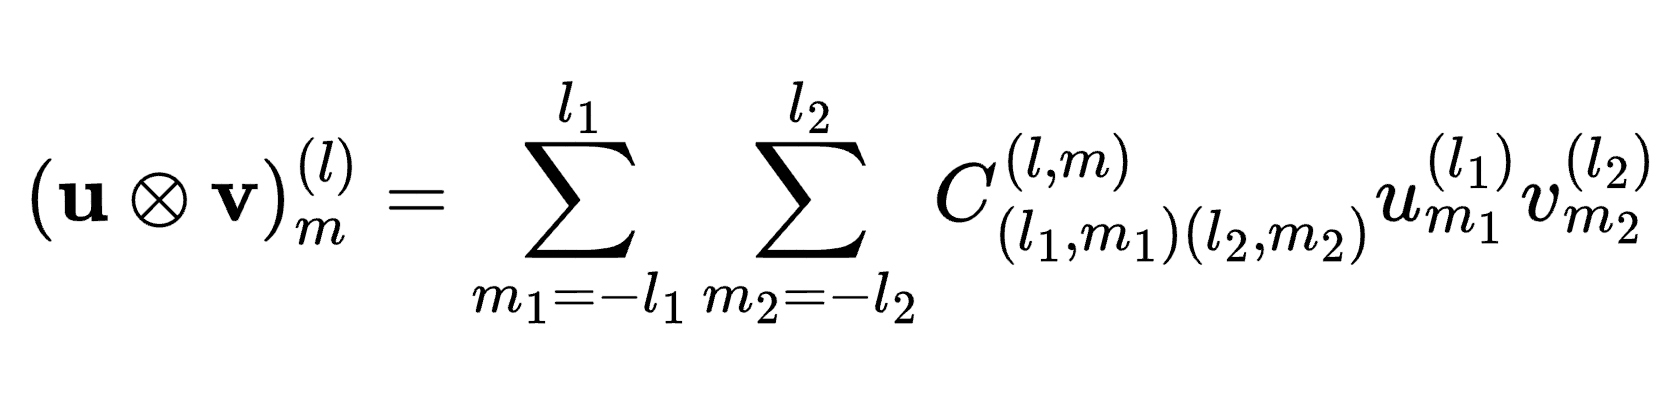
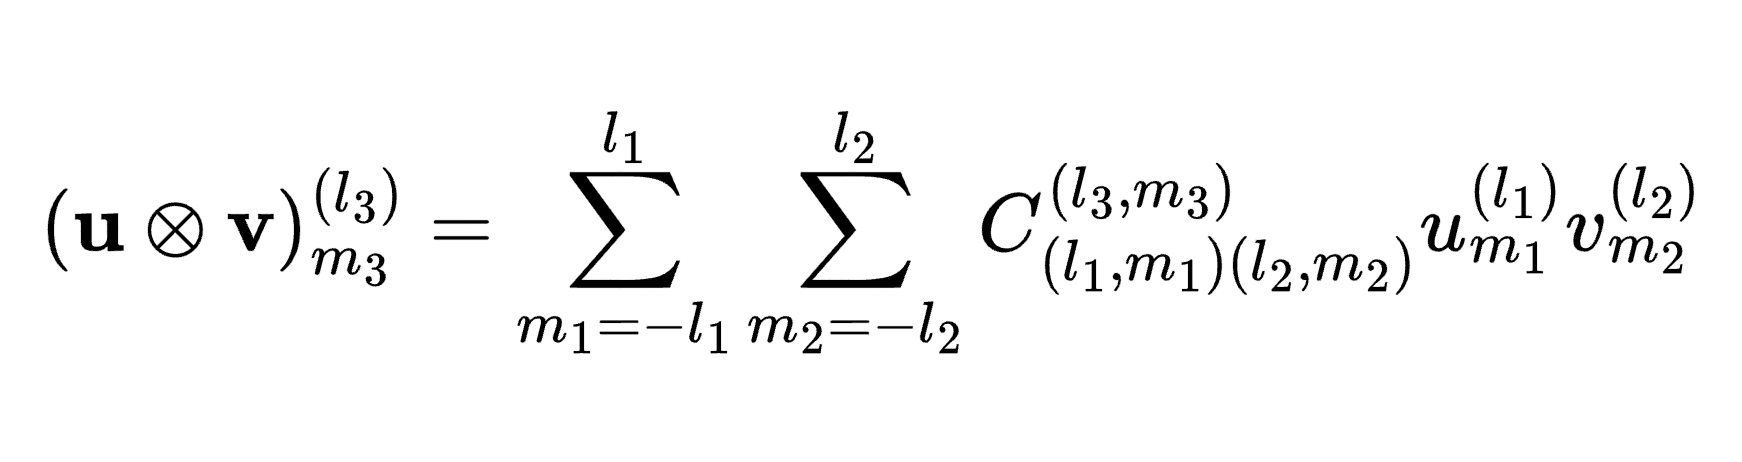
tensor product coefficients now match the image

diff --git a/irrep.py b/irrep.py
@@ -108,19 +108,19 @@ class Irrep():
             else:
                 # calculate all 2l+1 coefficients for this irrep here
                 coefficients = [0]*(2*l_out+1)
-                for m_out in range(-l_out, l_out + 1):
+                for m3 in range(-l_out, l_out + 1):
 
-                    # here we are doing the summation to get the coefficient for this m_out (see assets/tensor_product.png for the formula)
+                    # here we are doing the summation to get the coefficient for this m3 (see assets/tensor_product.png for the formula)
                     coefficient = 0
                     for m1 in range(-l1, l1 + 1):
                         for m2 in range(-l2, l2 + 1):
-                            cg = get_clebsch_gordan(l1, l2, l_out, m1, m2, m_out)
+                            cg = get_clebsch_gordan(l1, l2, l_out, m1, m2, m3)
                             v1 = irrep1.get_coefficient(m1)
                             v2 = irrep2.get_coefficient(m2)
                             normalization = 1
                             coefficient += cg*v1*v2*normalization
 
-                    m3_idx = to_cartesian_order_idx(l_out, m_out) # put the coefficeint in the right index since we're following Cartesian order convention https://e3x.readthedocs.io/stable/pitfalls.html
+                    m3_idx = to_cartesian_order_idx(l_out, m3) # put the coefficient in the right index since we're following Cartesian order convention https://e3x.readthedocs.io/stable/pitfalls.html
                     coefficients[m3_idx] = coefficient
 
                 coefficients = torch.tensor(coefficients)
